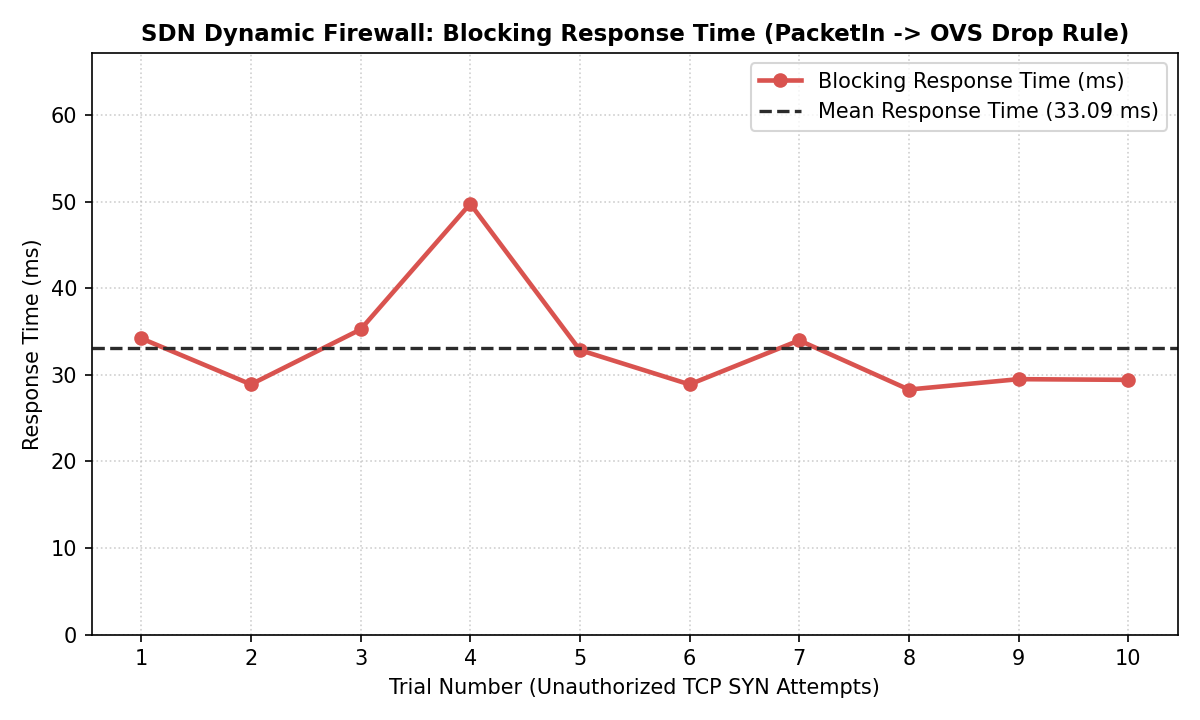
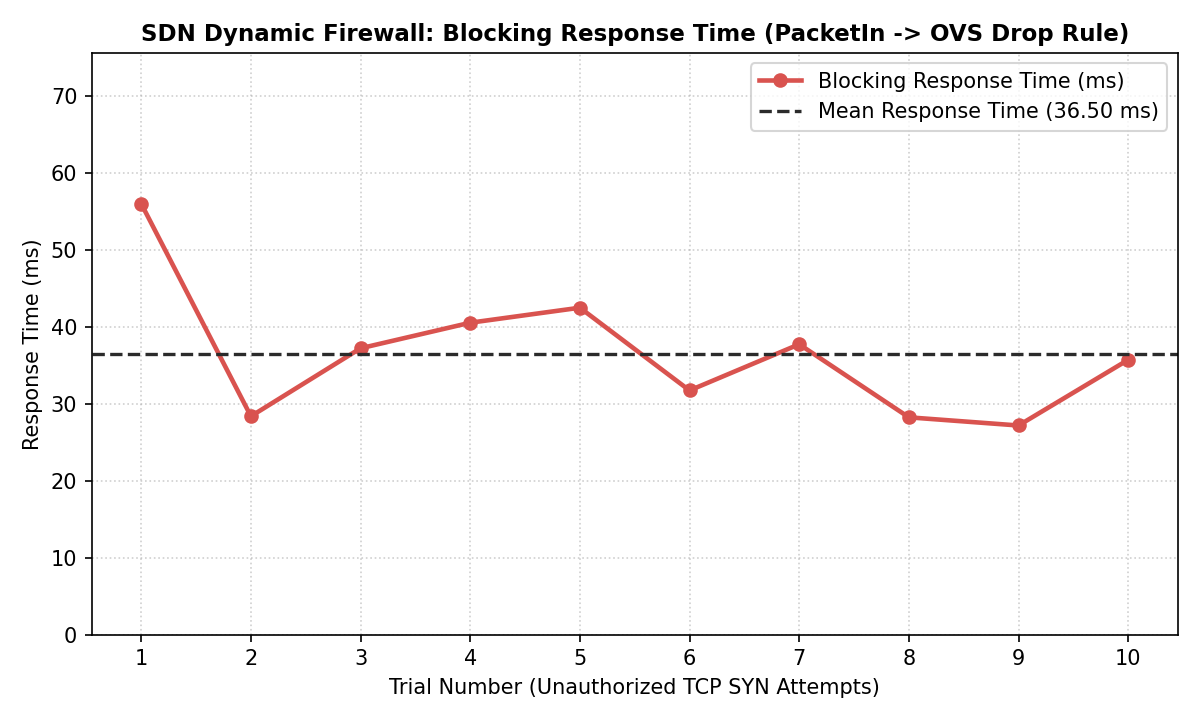
Add unified master runner and updated benchmark artifacts

diff --git a/run_full_project.py b/run_full_project.py
@@ -1,0 +1,120 @@
+#!/usr/bin/env python3
+"""
+Unified Master Project Runner: SDN-Based Dynamic Firewall with Centralized Security Event Logger (TCP)
+Executes the entire project pipeline end-to-end:
+  Stage 1: Boot OpenFlow 1.3 Topology & Background Servers (h3 TCP Server, h4 SOC Logger)
+  Stage 2: Live Traffic Verification (Authorized TCP, Forbidden Port Attack, Blacklisted Host Attack)
+  Stage 3: Data-Plane & Telemetry Inspection (OVS Flow Table, Live SOC Console, JSON Logs)
+  Stage 4: Multi-Threaded Logger Stress Verification (13/13 Concurrency Suite)
+  Stage 5: Live Network Performance & Baseline Evaluation + PNG Graph Generation
+"""
+
+import os
+import subprocess
+import sys
+import time
+
+BASE_DIR = os.path.dirname(os.path.abspath(__file__))
+sys.path.insert(0, os.path.join(BASE_DIR, "mininet"))
+
+from mininet.log import setLogLevel
+from mininet.net import Mininet
+from mininet.node import OVSSwitch, RemoteController
+from topology import FirewallTopo
+import benchmark_d2 as bench
+
+LOG_SERVER_SCRIPT = os.path.join(BASE_DIR, "socket_app", "log_server.py")
+TCP_SERVER_SCRIPT = os.path.join(BASE_DIR, "socket_app", "tcp_server.py")
+TCP_CLIENT_SCRIPT = os.path.join(BASE_DIR, "socket_app", "tcp_client.py")
+LOG_FILE_PATH = os.path.join(BASE_DIR, "security_events.log")
+
+
+def banner(title: str):
+    print("\n" + "=" * 78)
+    print(f" {title}")
+    print("=" * 78, flush=True)
+
+
+def main():
+    setLogLevel("warning")
+
+    banner("STAGE 1: CLEANING ENVIRONMENT & STARTING UNIFIED SDN NETWORK")
+    subprocess.run(["mn", "-c"], stdout=subprocess.DEVNULL, stderr=subprocess.DEVNULL)
+    if os.path.exists(LOG_FILE_PATH):
+        os.remove(LOG_FILE_PATH)
+
+    topo = FirewallTopo()
+    net = Mininet(
+        topo=topo,
+        controller=lambda name: RemoteController(name, ip="127.0.0.1", port=6653),
+        switch=OVSSwitch,
+        autoSetMacs=True,
+    )
+    net.start()
+
+    subprocess.run(["ip", "addr", "flush", "dev", "s1"], stderr=subprocess.DEVNULL)
+    subprocess.run(["ip", "addr", "add", "10.0.0.254/24", "dev", "s1"], stderr=subprocess.DEVNULL)
+    subprocess.run(["ip", "link", "set", "s1", "up"], stderr=subprocess.DEVNULL)
+    bench.ensure_table_miss_rule()
+
+    h1, h2, h3, h4 = net.get("h1", "h2", "h3", "h4")
+
+    h4.cmd(f"python3 -u {LOG_SERVER_SCRIPT} --host 0.0.0.0 --port 9999 --logfile {LOG_FILE_PATH} > /tmp/h4_logger.out 2>&1 &")
+    h3.cmd(f"python3 -u {TCP_SERVER_SCRIPT} > /tmp/h3_server.out 2>&1 &")
+    time.sleep(1.2)
+
+    print(" -> OpenFlow 1.3 Switch s1 (10.0.0.254/24) connected to SDN Controller (127.0.0.1:6653)")
+    print(" -> Application TCP Server active on h3 (10.0.0.3:8080)")
+    print(" -> Centralized Security Event Logger active on h4 (10.0.0.4:9999)")
+
+    banner("STAGE 2: EXECUTING LIVE FIREWALL TRAFFIC SCENARIOS")
+
+    print("\n[Scenario 1] Authorized Client Traffic (h1 [10.0.0.1] -> h3 [10.0.0.3:8080]):")
+    out1 = h1.cmd(f"python3 {TCP_CLIENT_SCRIPT} --server-ip 10.0.0.3 --port 8080 --mode normal --messages 2")
+    print(out1.strip())
+
+    print("\n[Scenario 2] Unauthorized Port Attack (h1 [10.0.0.1] -> h3 [10.0.0.3:4444]):")
+    out2 = h1.cmd(f"python3 {TCP_CLIENT_SCRIPT} --server-ip 10.0.0.3 --port 4444 --mode forbidden --messages 1")
+    print(out2.strip())
+
+    print("\n[Scenario 3] Blacklisted Host Attack (h2 [10.0.0.2] -> h3 [10.0.0.3:8080]):")
+    out3 = h2.cmd(f"python3 {TCP_CLIENT_SCRIPT} --server-ip 10.0.0.3 --port 8080 --mode normal --messages 1")
+    print(out3.strip())
+    time.sleep(0.5)
+
+    banner("STAGE 3: VERIFYING OPENFLOW SWITCH RULES & CENTRALIZED SOC LOGS")
+
+    print("\n--- [A] Application TCP Server Log on h3 (/tmp/h3_server.out) ---")
+    with open("/tmp/h3_server.out", "r", encoding="utf-8") as f:
+        print(f.read().strip())
+
+    print("\n--- [B] Live SOC Logger Console on h4 (/tmp/h4_logger.out) ---")
+    with open("/tmp/h4_logger.out", "r", encoding="utf-8") as f:
+        print(f.read().strip())
+
+    print("\n--- [C] Persistent JSON Security Telemetry (security_events.log) ---")
+    if os.path.exists(LOG_FILE_PATH):
+        with open(LOG_FILE_PATH, "r", encoding="utf-8") as f:
+            print(f.read().strip())
+
+    print("\n--- [D] Active OpenFlow 1.3 Flow Table on Switch s1 ---")
+    print(bench.dump_flows().strip())
+
+    banner("STAGE 4: RUNNING LIVE NETWORK PERFORMANCE & BASELINE BENCHMARK")
+    response_times = bench.measure_blocking_response_times(h1, trials=10)
+    impact = bench.evaluate_network_impact(h1, h2)
+    bench.generate_plots(response_times, impact)
+
+    net.stop()
+
+    banner("STAGE 5: RUNNING MULTI-THREADED LOGGER CONCURRENCY SUITE (13/13)")
+    subprocess.run(["python3", os.path.join(BASE_DIR, "socket_app", "test_logger_suite.py")], check=False)
+
+    if os.path.exists(LOG_FILE_PATH):
+        os.remove(LOG_FILE_PATH)
+
+    banner("ALL PROJECT MODULES VERIFIED SUCCESSFULLY!")
+
+
+if __name__ == "__main__":
+    main()
